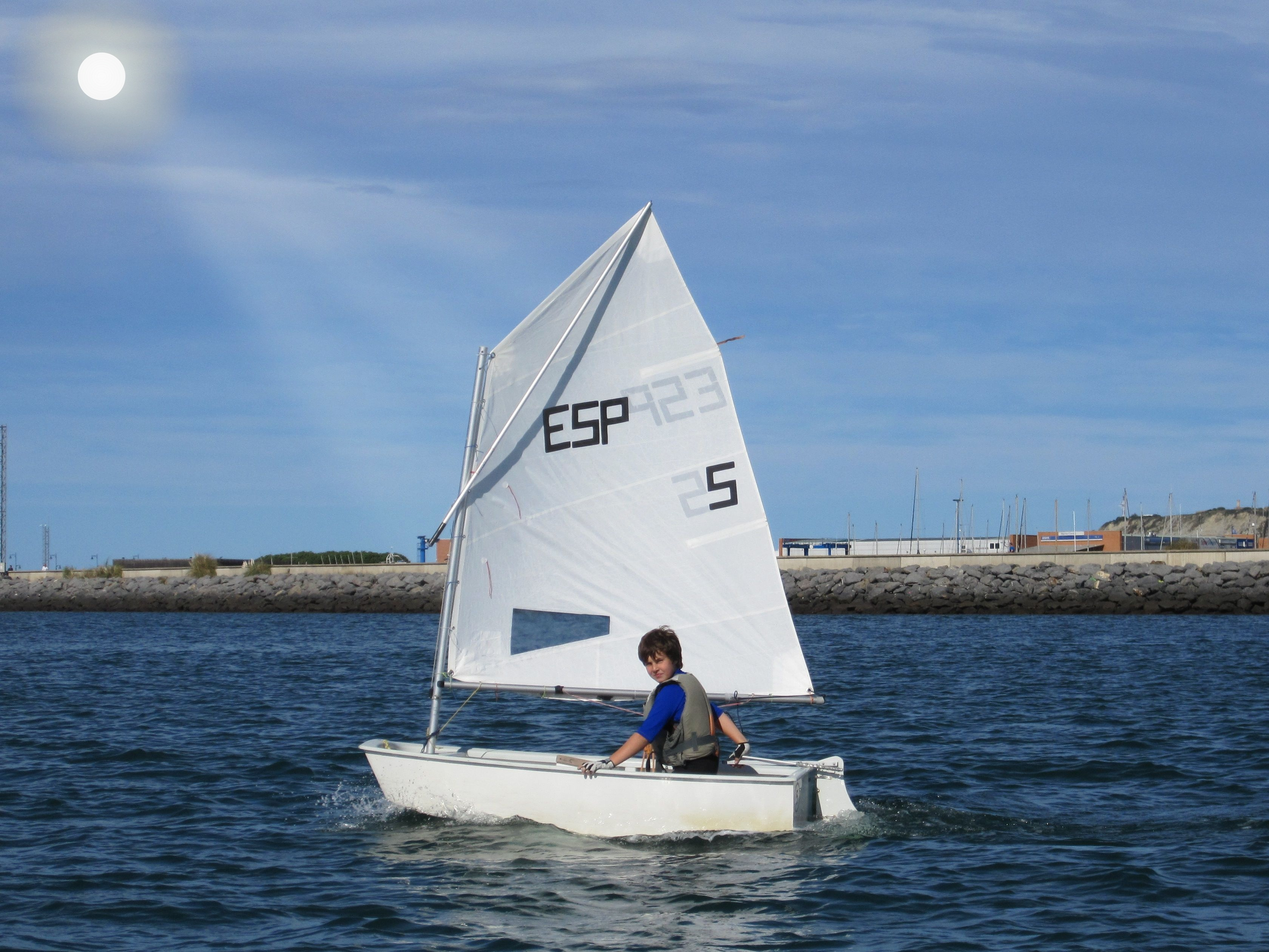
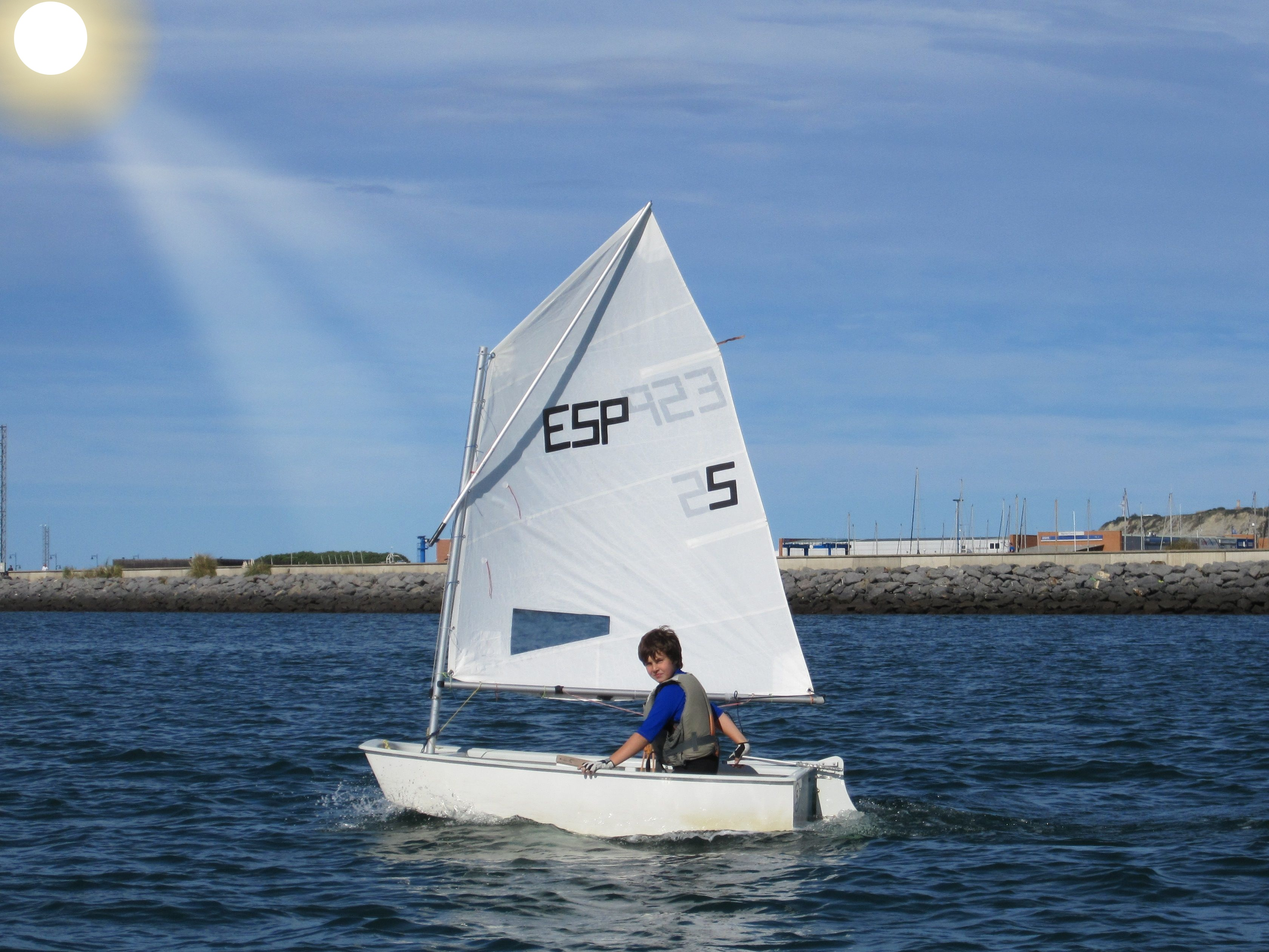
fix(about): place clear visible sun at top-left corner and set card position to center top

Changed region(s): [[0.0, 0.0, 0.1562, 0.1548], [0.0938, 0.1548, 0.2188, 0.4333]]

diff --git a/apps/getxobelaeskola-web/src/app/[locale]/about/page.tsx b/apps/getxobelaeskola-web/src/app/[locale]/about/page.tsx
@@ -54,7 +54,7 @@ export default async function AboutPage({ params: { locale } }: { params: { loca
             icon: "🌊",
             bg: "/images/about-optimist.jpg",
             objectFit: "cover",
-            objectPosition: "center 45%"
+            objectPosition: "center top"
         }
     ];
 
